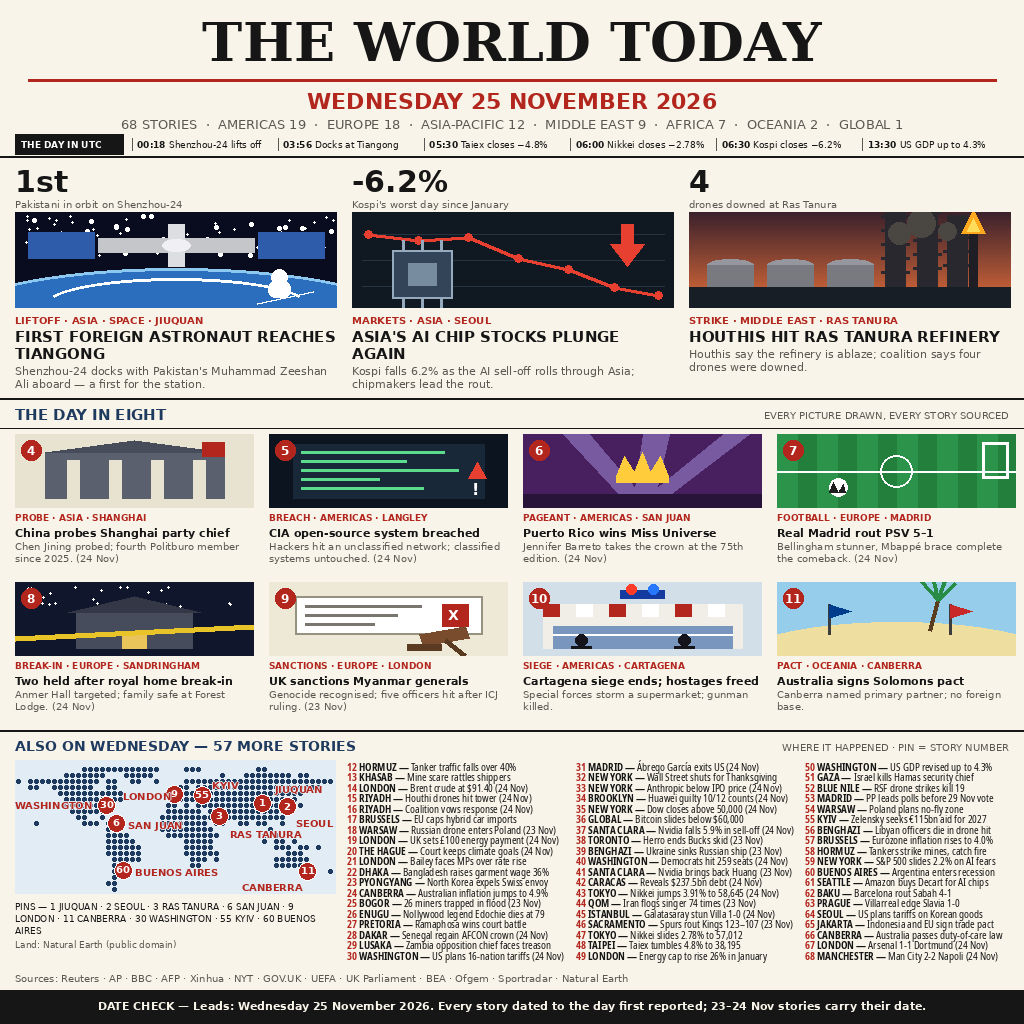
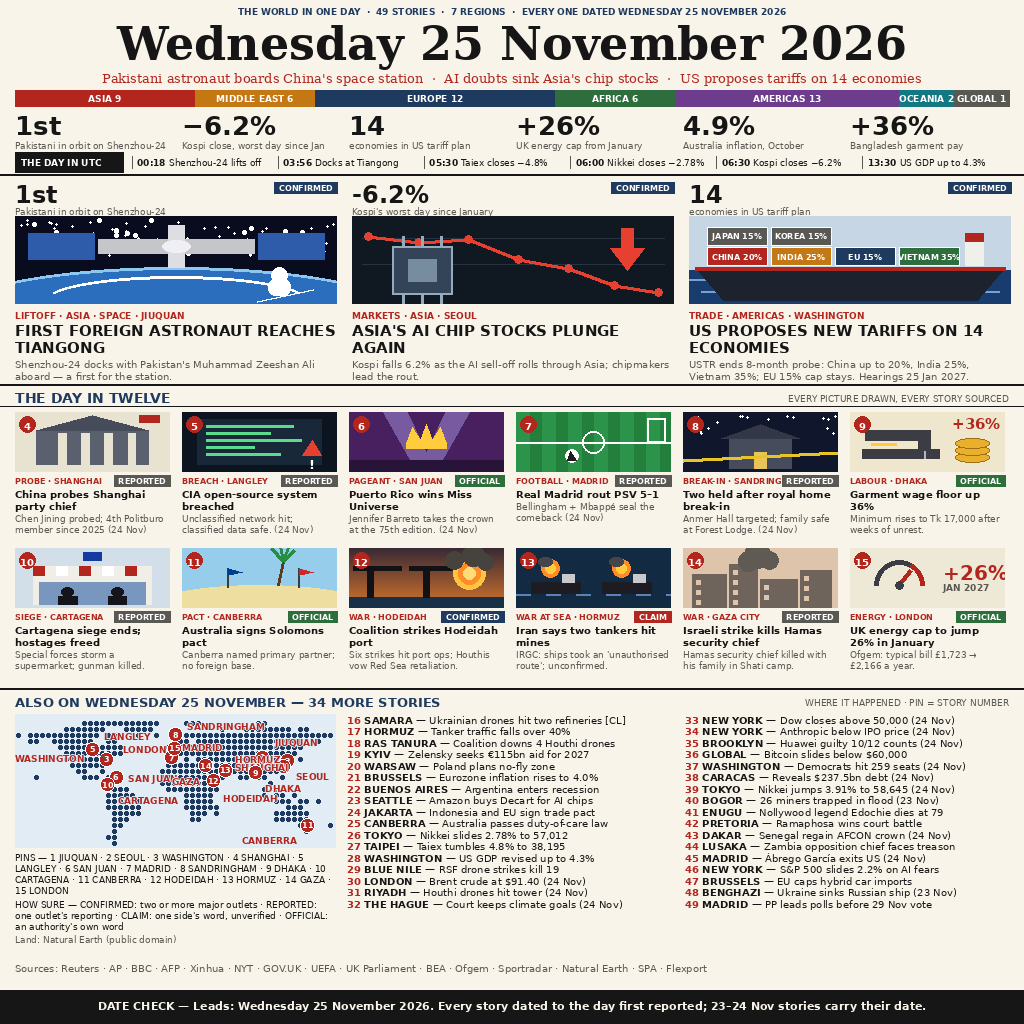
v6: Top-10 template, checked against rivals — 49 stories, 15 drawn, giant date masthead, region bar, 6-stat row, confidence tags, Natural Earth map

diff --git a/main.py b/main.py
@@ -1,4 +1,4 @@
-"""Entry program for news-image-20261125 (v5).
+"""Entry program for news-image-20261125 (v6).
 
 Copies the pre-built 1024x1024 news image from assets/entry.png to
 the output directory as entry.png. Deterministic: the copy is
@@ -17,8 +17,9 @@ def main():
     out_dir = os.environ.get("MAKEFUN_OUTPUT_DIR") or "/output"
     os.makedirs(out_dir, exist_ok=True)
     dst = os.path.join(out_dir, "entry.png")
-    # v5 revised: 68 stories, v3 layout + verified UTC timeline strip,
-    # Natural Earth dotted map with 7 pins, 57-story brief in 3 columns.
+    # v6: 49 stories (3 heroes + 12 minis + 34 brief), Top-10 template:
+    # giant date masthead, region bar, 6-stat row, verified UTC timeline,
+    # Natural Earth dotted map with 15 pins, confidence tags + HOW SURE.
     # Deterministic: same input bytes -> same output bytes, every run.
     shutil.copyfile(src, dst)
 
